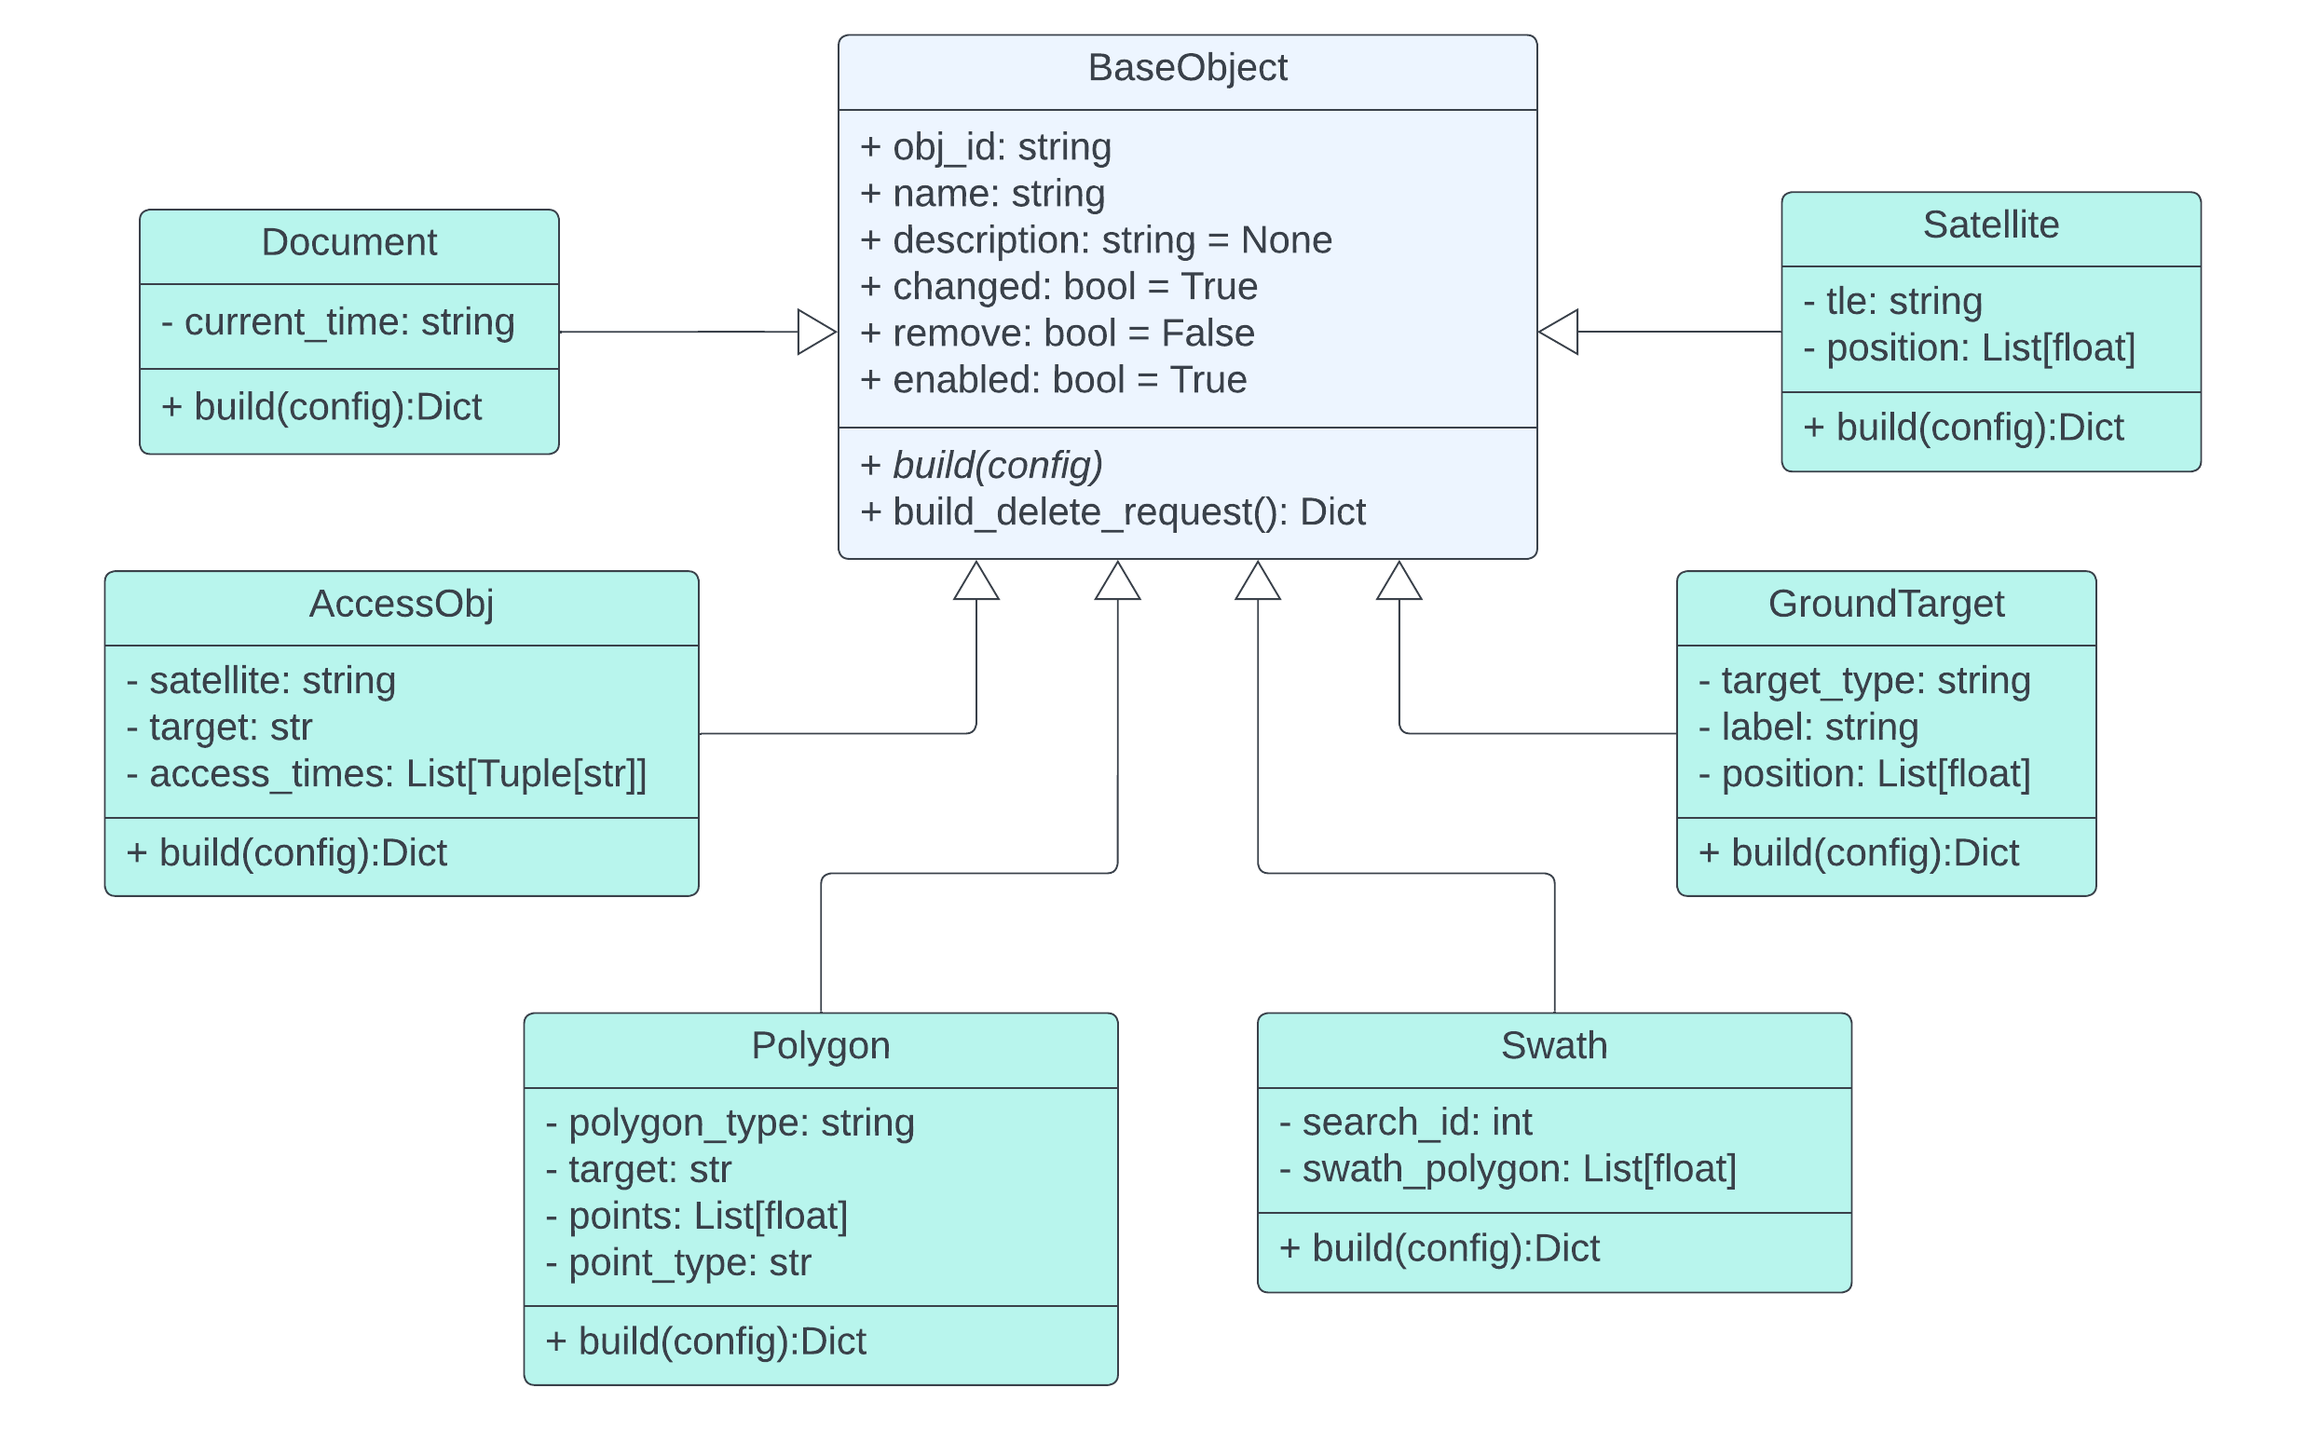
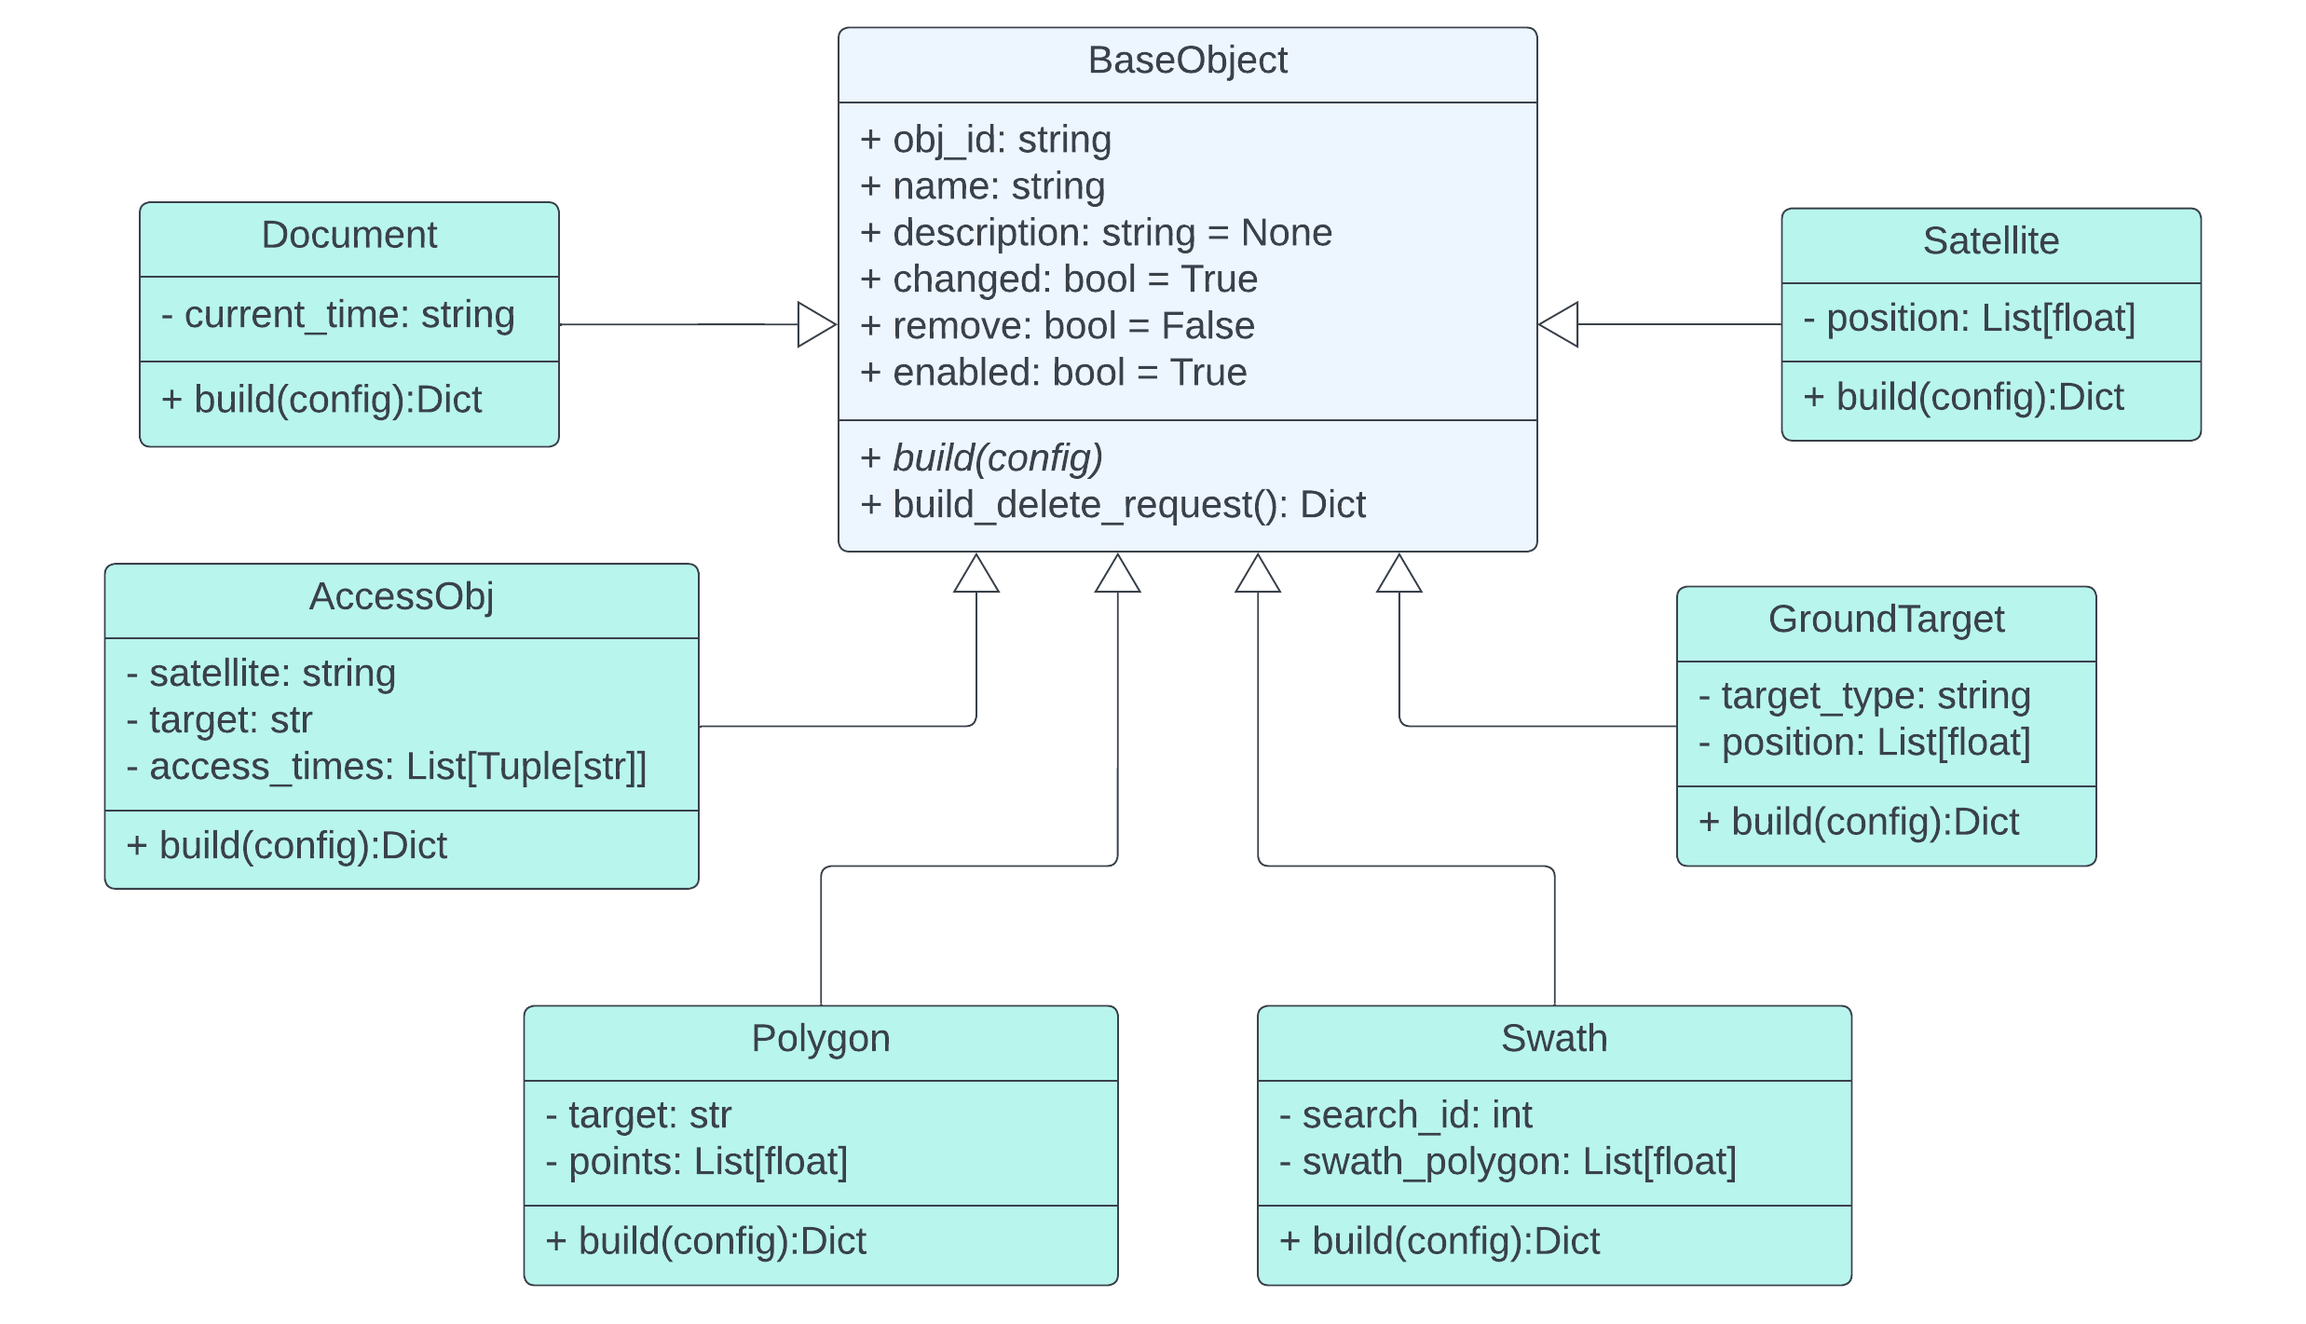
good day wednesday. ~3 pages

diff --git a/Chapters/3_Software_Architecture.tex b/Chapters/3_Software_Architecture.tex
@@ -2,7 +2,7 @@
 \chapter{Software Architecture}
 
 
-\section{POPS Architecture}
+\section{Payload Operations Planning Software Architecture}
 
 The \gls{pops} is made up of several distinct components separated into
 services.  Each service has its own Docker5 container. Containers are similar
@@ -290,6 +290,30 @@ are stored separately and then statically referenced in the \gls{html} file
 they apply to. By consolidating these files, it is much easier to organize and
 reference them as necessary. 
 
+
+\subsection{Data Handlers}\label{sec:data_handler}
+
+For \gls{pops}, there is a great deal of data and many different ways that the
+data can be formatted in. In an attempt to generalize the data and make them
+easier for a developer to work with, several Data Handler classes have been
+created to handle data format conversions and to provide helper functions. 
+
+\subsubsection{Ephemeris Class}
+
+Ephemerides are the most important collections of data as they are used as a
+basis to calculate most other data. As such, they are referenced many times and
+have a number of different formats. To illustrate what is meant by different
+data formats, let us briefly jump into some specifics. There are four different
+areas where Ephemerides are referenced: the Propagator service, the \gls{ATU}
+service, the Cesium Viewer, and the database.
+
+
+
+
+\subsection{Access Time Utilities Handler}
+
+\subsection{Opportunity Filter}
+
 \subsection{3D Earth Visualization}
 
 One of the required components of \gls{pops} is a graphical 3D Earth viewer.
@@ -366,35 +390,27 @@ is created, it runs until it or the page is changed.  To facilitate
 communication between the Cesium viewer and the Python backend, a websocket is
 created as they allow for bi-directional communication. 
 
-\subsection{Cesium Handler and Cesium Models}
+\subsection{Cesium Models}
 
-To manage the Cesium viewer from the backend, a Python Cesium Handler class has
-been written that acts as the interface between the two. The Cesium Handler
-class: keeps track of the entities currently in the Cesium viewer, keeps track
-of what entities have been changed or that need to be updated, and generates
-new \gls{czml} data to be sent to the viewer. Some libraries do exist that
-perform this functionality but \gls{pops} has enough custom entities that an
-equivalent amount of development would need to be done to support them anyway.
-
-Before discussing the Cesium Handler class in depth, it would be useful to
-first go over Cesium Models. These model classes are not like the ones made for
-\gls{orm}, rather these models have two responsibilities. They must keep some
-metadata about a Cesium object and they must contain a method that generates a
-valid \gls{czml} packet. A \gls{uml} diagram that summarizes all of the
-currently implemented Cesium models can be seen in
+Even though we are using Cesium as our 3D Earth visualization tool, a
+substantial amound of development must be done to properly configure and manage
+what is being shown on the viewer. Before discussing how a Cesium viewer is
+managed, it would be useful to first go over what can be displayed currenlty
+with \gls{pops}, the Cesium Models. These model classes are not like the ones
+made for \gls{orm}, rather these models have two responsibilities. They must
+keep some metadata about a Cesium object and they must contain a method that
+generates a valid \gls{czml} packet.  A \gls{uml} diagram that summarizes all
+of the currently implemented Cesium models can be seen in
 Figure~\ref{fig:cesium_models}. It should be noted that the diagram does not
 contain an exhaustive list of all of the member variables for each class;
-rather, it contains the most important variables. Each model contains some
+rather, it contains the most important variables.  Each model contains some
 information about the object that does not change once it is created. For
 example a satellite object will not change which satellite it references once
 it's created. 
 
-\begin{figure}
-    \centering
-    \includegraphics[width=0.9\textwidth]{Cesium_Models.png} 
-    \caption{Cesium Models UML}
-\label{fig:cesium_models}
-\end{figure}
+\begin{figure} \centering
+\includegraphics[width=0.9\textwidth]{Cesium_Models.png} \caption{Cesium Models
+UML} \label{fig:cesium_models} \end{figure}
 
 To begin, there is a \texttt{BaseObject} class which serves as a general parent
 class to all Cesium objects. It defines member variables that are common to all
@@ -439,24 +455,166 @@ are as follows:
 	stations or any other stationary ground object.
 
     \item[Access Object] It is useful to display when a satellite has access to
-	a ground target. This is accomplished through drawing a line between
-	the satellite and the ground target. 
+	a ground target. This is accomplished through drawing a polylline
+	between the satellite and the ground target for times where they have
+	access to each other. One useful feature of \gls{czml} is that we can
+	reference the position of other object by reference to their ID. This
+	saves us from having to load a satellite ephemeris into the object to
+	describe the position of the satellite. \gls{czml} also allows us to
+	specify when an object should or should not be visible by specifying
+	intervals of visibility. When an \texttt{Access Object} is created we
+	must pass a list of access times such that we may define these
+	intervals in the object.
 
-    \item[Polygon]
+\begin{figure}
+    \begin{minipage}[c]{0.45\textwidth}
+	\centering
+	\includegraphics[width=1\textwidth]{inside-outside-2.png} 
+	\caption{Smaller Area}
+	\label{fig:inside_polygon_1}
+    \end{minipage}
+    \hfill
+    \begin{minipage}[c]{0.45\textwidth}
+	\centering
+	\includegraphics[width=1\textwidth]{inside-outside-1.png} 
+	\caption{Wider Area}
+	\label{fig:inside_polygon_2}
+    \end{minipage} 
+\end{figure}
 
-    \item[Swath]
+
+    \item[Polygon] As mentioned earlier, Cesium has the ability to display
+	polygons in any number of ways but, for our purposes, we are mainly
+	focused on polygons clamped to the Earth's surface. The two instances
+	where polygons are currently used for \gls{pops} are for Area Target
+	\glspl{aoi} and for intersection polygons. The difference practically
+	for these two cases is just in their colour. To draw a polygon in
+	Cesium, we must provide it a list of points in Cartesian coordinates or
+	in Latitude-Longitude-Altitude coordinates. For the Cartesian
+	coordinates, if a point does not directly lie on the WGS84 Ellipsoid,
+	Cesium will only draw the closest point on the Ellipsoid. From this
+	list of points, Cesium will guess the `inside' of the polygon. Note
+	that since we are drawing shapes on an Ellipsoid, the geometry is
+	non-Euclidean. The inside of a polygon on a 2D plane is clear for
+	polygons that do not self-intersect; it is simply the the region that
+	is enclosed by all of the sides of the polygon. For an Ellipse any
+	point can be enclosed. See an example of this in Figures
+	\ref{fig:inside_polygon_1} and \ref{fig:inside_polygon_2}. Both have
+	identical polygons where there are 4 vertices on the Ellipsoid and
+	their edges are the same. There is now a question of what forms the
+	inside of the polygon as this can be the larger area or the smaller
+	area. There are a number of ways this can be addressed. One way is to
+	specify the points on the polygon in a clockwise or counter clockwise
+	order. Then the internal area will be whatever conforms to this
+	ordering. Another way would be to specify one or more points that are
+	not vertices but rather example points that lie within the polygon. In
+	this way the area of the polygon will be the set of points that contain
+	the example point. For simplicity, Cesium makes a best guess at what
+	the inside of a polygon is by selecting the inside with the smaller
+	area. This is sufficient for smaller polygons but for larger or more
+	complicated polygons where the intended area is greater than one half
+	hemisphere, determining the inside of a polygon no longer becomes clear
+	and the viewer displays a garbled result. Alternatively, if there is a
+	polygon which intersects itself, Cesium also becomes confused. In these
+	scenarios, a large polygon must be sub-divided into sections that
+	Cesium can process.
+
+\begin{figure}
+    \centering
+    \includegraphics[width=0.9\textwidth]{Cesium_Example_Swath.png} 
+    \caption{Example of a 30$^\circ$ Ground Swath}
+    \label{fig:cesium_swath}
+\end{figure}
+
+    \item[Swath] The last Cesium object that is currently handled are ground or
+	access swaths. The distinction here between \gls{fov} and \gls{for} is
+	unimportant since both are displayed in the same way. Swaths are
+	displayed with polygons but how they are generated can be tricky. From
+	the \glspl{atu}, swaths are represented through two polylines that loop
+	around the Earth $L_1$ and $L_2$. These represent the left and right
+	boundary of the swath with respect to the velocity vector (See
+	section~\ref{sec:atu}).  Typically, to display a swath all that we must
+	do is reverse $L_1$ and append it to $L_2$. In this way we create a
+	counter-clockwise ordered polygon that can be displayed on Cesium. But,
+	if we do this for a swath that is defined for greater than one
+	half-orbit Cesium will no longer be able to display the polygon because
+	it cannot determine what the inside of the polygon is. Thankfully,
+	swaths generally only need to displayed for times where a satellite has
+	access to an \gls{aoi}. Automatically sub-dividing swaths for longer
+	time ranges will be handled in future iterations of \gls{pops}.
+	Combining the two swaths boundaries is mostly sufficient for display
+	purposes but at the beginning and end of a constrained swath, we may
+	wish to show the footprint or access region of the satellite at the
+	beginning and end of the constrained swath. To do this, the \glspl{atu}
+	also provide ellipse lists for each point in an Ephemeris. From this
+	list, we can take the ellipsoids at the beginning and end of the
+	constrained swath, take only the points that lie outside of the swath
+	area, and append them to the boundary lists. That is,
+	\begin{equation*} 
+	    P_{swath} = L_1' + E_{start} + L_2 + E_{end}
+	\end{equation*} where $P_{swath}$ is the swath polygon, $L_1'$ is $L_1$
+	reversed, and $E_{start}/E_{end}$ are the ellipse points at the
+	beginning and of the constrained swath. Calculating $E_{start}/E_{end}$
+	is somewhat involved and is discussed in Algorithm~\ref{alg:ellipse}.
+	An example of a swath can be seen in Figure~\ref{fig:cesium_swath}.
 
 \end{description}
 
 
+\subsection{Cesium Models}
 
+Now that we have an understanding for all of the basic objects that are
+supported by \gls{pops}, we may now discuss how they are combined to display
+mission information to a user. For this, a Python Cesium Handler class has been
+written that acts as the interface between the Python backend and the Cesium
+viewer frontend. The Cesium Handler class: keeps track of the entities
+currently in the Cesium viewer, keeps track of what entities have been changed
+or that need to be updated, and generates new \gls{czml} data to be sent to the
+viewer. When the \texttt{main} script is first run, it creates an instance of
+the Cesium Handler class as a global variable. In this way it can be referenced
+as needed by any api call. Some libraries do exist that perform this
+functionality but \gls{pops} has enough custom entities that an equivalent
+amount of development would need to be done to support them anyway.
 
+To keep track of entities in the viewer, the Cesium Handler class has a list of
+objects where each object is a Cesium Model. As such, it has all of the meta
+information of the \texttt{BaseObject} as well as a method to build a
+\gls{czml} packet and delete packet. By setting up Cesium objects in this way,
+they can be treated completely generally by the Cesium Handler class and
+metadata can be stored and referenced for every object. This metadata tracks
+the status of Cesium objects and determines whether any changes need to be made
+in the viewer. 
 
-\subsection{Data Handler}\label{sec:data_handler}
+Objects can be added or removed with helper funcitons in the Cesium Handler
+class. Either objects can be added directly, by creating an instance of a
+Cesium Model class, then adding them to the list of objects in the Cesium
+Handler or a developer can use one of the helper methods. Some situations may
+require specific logic to set up a scenario. This is the case for displaying
+search scenarios or adding opportunities to a viewer. Currently, there is no
+way to generally display the results of a search scenario. A developer must
+explicitly define what swaths, intersection polygons, or \glspl{aoi} to add. In
+the future this may bemade completely general through some sophisticated but
+the current method is sufficient. As with the database, opportunities are also
+linked in the Cesium Handler class so that they can be referenced and enabled
+or disabled as desired. This makes visualizing search scenarios much more
+clear. 
 
-\subsection{ATU Handler}
+To actual effect changes to the Cesium viewer, the Cesium Handler makes use of
+an asynchronous approach. A user may make a change to the Viewer at any time or
+they may even make many changes in quick succession and the Viewer must be able
+to update correctly. Whenever a change is made to the objects list, first,
+\gls{czml} packets are generated for each object whose\texttt{changed} flag is
+raised. In this way czml is only sent when necessary and the viewer is not
+bombarded duplicate data. These packets are then added to a queue. Then, a flag
+is raised in the Cesium Handler class to signal that packets are ready to be
+sent to the Cesium Viewer. Within the \texttt{main} script there is a loop that
+checks for this flag. Once it is raised, the \texttt{main} service sends every
+\gls{czml} packet to the viewer then verifies that the correct number of
+packets were received in a return message. If the validation passes, then the
+changed flag is reset for all of the objects that were processed. The reason
+for using a queue is that it allows for many requests to be processed quickly
+without it potentially jumbling the viewer.
 
-\subsection{Opportunity Filter}
 
 \subsection{Scheduler}
 

diff --git a/Chapters/7_Appendix.tex b/Chapters/7_Appendix.tex
@@ -10,7 +10,7 @@ some form. To avoid detracting from the main body of the thesis they have been
 placed here, in the appendices.
 
 
-\section{Algorithm 1: Multiple Access Intersection} 
+\section{Multiple Access Intersection Algorithm} 
 
 For some search scenarios, we may need to determine for what times do all
 satellites have access to a target such as an \gls{aoi} or a ground station.
@@ -210,8 +210,13 @@ alogrithm definition is as follows,
 
 \end{algorithm}
 
- 
+%%%%%%%%%%%%%%%%%%%%%%%%%%%%%%%%%%%%%%%%%%%%%%%%%%%%%%%%%%%%%%%%%%%%%%%%%%%%%% 
 
+\section{Single Access Intersection} \label{alg:ellipse}
+
+%%%%%%%%%%%%%%%%%%%%%%%%%%%%%%%%%%%%%%%%%%%%%%%%%%%%%%%%%%%%%%%%%%%%%%%%%%%%%% 
+
+\section{Swath Boundary Ellipse Algorithm} \label{alg:ellipse}
 
 
 
